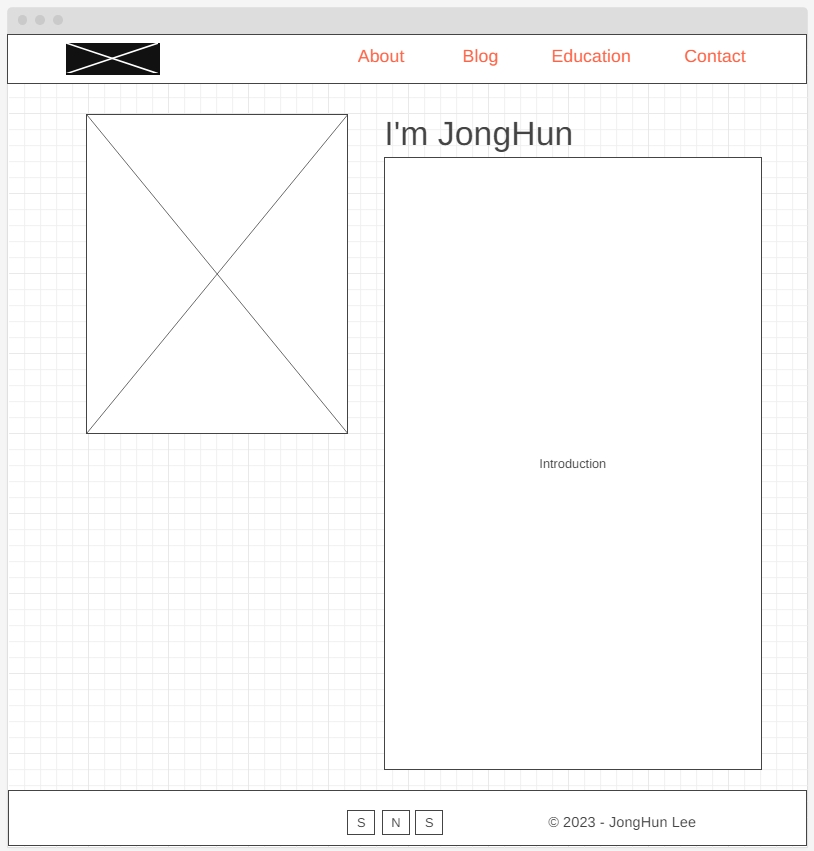
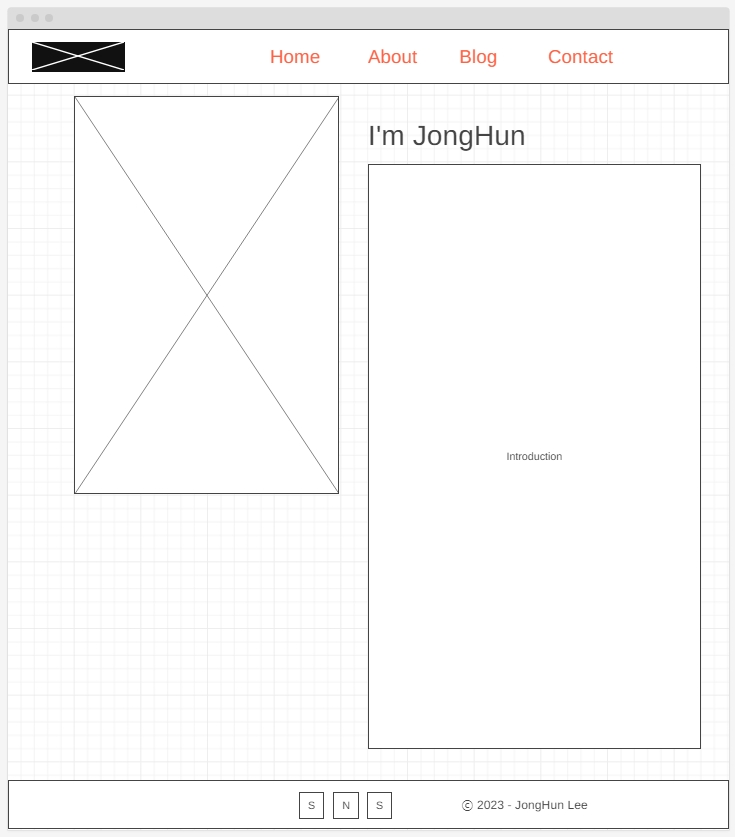
I did the this week site

diff --git a/1Portfolio/index.html b/1Portfolio/index.html
@@ -10,25 +10,32 @@
     <div id="content">
         <header>
             <a id="logo-box" href="index.html">
-                <img class="logo" src="images/dsdslino.png" alt="Datalino">
+            <img class="logo" src="images/dsdslino.png" alt="Datalino">
             </a>
-            <nav>
-                <a href="index.html">Home</a>
-                <a href="About.html">About</a>
-                <a href="Blog.html">Blog</a>
-                <a href="contact.html">Contact</a>
-            </nav>
         </header>
 
     <div id="hero">
-        <div id="hero-section">
-            <img id="hero-img" src="images/home.png" alt="Hello, World">
-        </div>
-        <section id="hero-door">
+         <div id="hero-section">
+         <img id="hero-img" src="images/home.png" alt="Hello, World">
+         </div>
+         <section id="hero-door">
             <h1 class="home-title">Hello, World</h1>
             <h3>I'm JongHun Lee</h3>
         </section>
     </div>
+
+    <nav>
+        <a href="index.html">Home</a>
+        <a href="About.html">About</a>
+        <a href="Blog.html">Blog</a>
+        <a href="contact.html">Contact</a>
+    </nav>
+
+    <main class="home-grid">
+        <section class="home-card">
+            <img class="home-img" src="images\data.jpg" alt="">
+        </section>
+    </main>    
 
 </body>
 </html>

diff --git a/1Portfolio/styles/styles.css b/1Portfolio/styles/styles.css
@@ -1,0 +1,40 @@
+#content {
+  max-width: 1600px;
+  margin: 0 auto;
+}
+
+.home-title {
+  color: #FFD6A5;
+  font-family: 'Roboto', sans-serif;
+  font-size: 2em;
+  margin-top: 10px;
+}
+
+#logo-box {
+  text-decoration: none; 
+}
+
+.logo {
+  width: 100px; 
+  height: auto; 
+}
+nav {
+  display: flex;
+  justify-content: space-around;
+}
+
+nav a {
+  color: #001F52;
+  text-decoration: none;
+  text-align: center;
+  padding: 35px;
+}
+
+nav a:hover {
+  background-color: #FFD6A5;
+  color: #001F52;
+}
+
+#hero-img {
+  max-width: 100%;
+}

diff --git a/1Portfolio/About.html b/1Portfolio/About.html
@@ -7,6 +7,13 @@
     <link rel="stylesheet" href="styles/style.css">
 </head>
 <body>
+    <nav>
+        <a href="index.html">Home</a>
+        <a href="About.html">About</a>
+        <a href="Blog.html">Blog</a>
+        <a href="contact.html">Contact</a>
+    </nav>
+    
     <section class="intro-section">
         <h1>Introduction</h1>
         <p>I am a construction business owner, part time marketer, and soon to be web developer.</p>

diff --git a/1Portfolio/Blog.html b/1Portfolio/Blog.html
@@ -6,7 +6,13 @@
     <title>Blog</title>
     <link rel="stylesheet" href="styles/style.css">
 </head>
-<body>
+<body>            
+    <nav>
+    <a href="index.html">Home</a>
+    <a href="About.html">About</a>
+    <a href="Blog.html">Blog</a>
+    <a href="contact.html">Contact</a>
+    </nav>
     
 
 </body>
